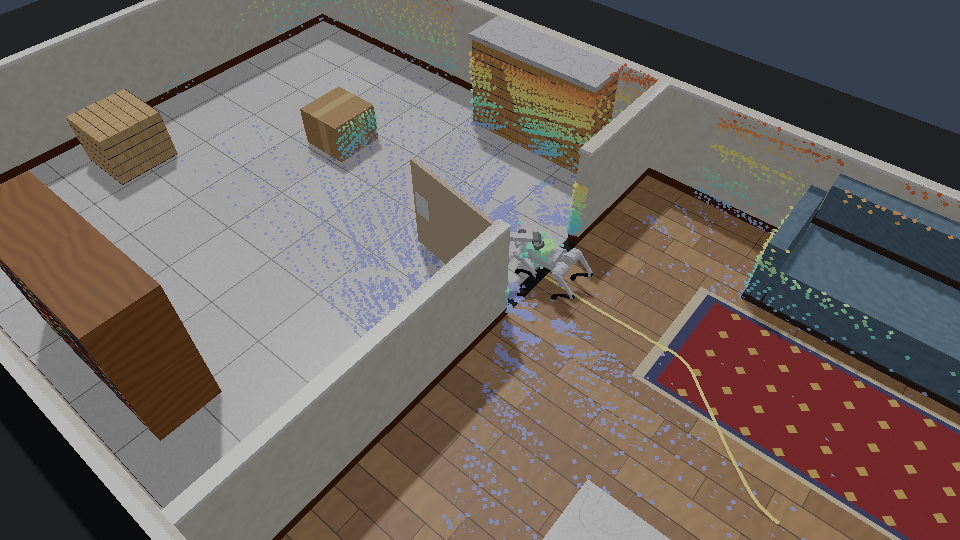
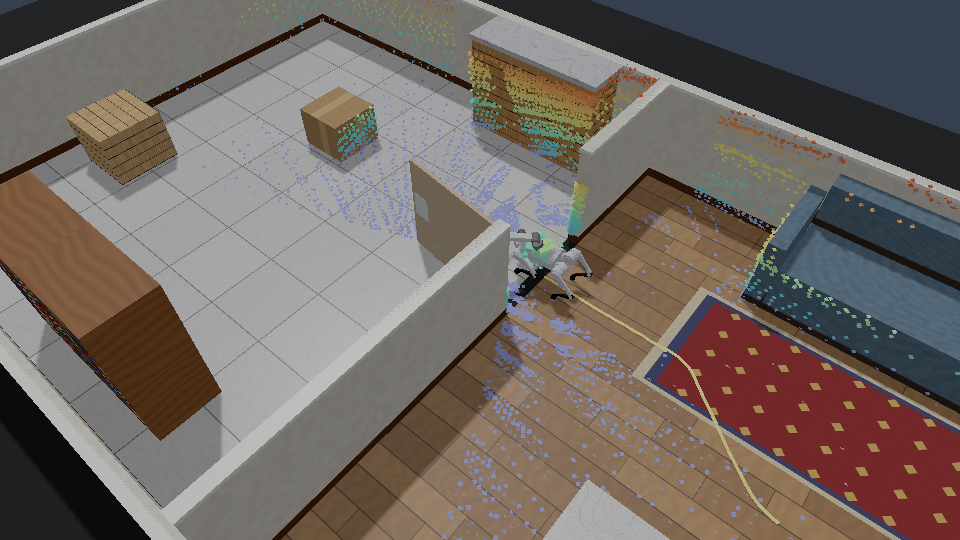
fix(ai): let the Mid-360 see other articulated bodies such as the door
sample_livox_mid360 skipped every URDF link in the scene, not just the sensor
robot's own, so the door was invisible to the scan. It now skips only the
links of the robot carrying the sensor; a new test counts 2,141 door returns
over five frames where the old filter gave 22.

Seeing the door broke example 132's localization (0.179 m RMS, 1.06 m worst,
body down to 0.201 m): the leaf moving under the robot's own push was matched
against a map holding the closed door. Returns within the door's swing are now
masked from SLAM, as a map's dynamic-object zone would be: 0.081 m RMS. The
showcase is recaptured (1,509,699 bytes; front page 11,742,190).

diff --git a/crates/rne_ai/src/env/urdf_scene/lidar.rs b/crates/rne_ai/src/env/urdf_scene/lidar.rs
@@ -3,8 +3,9 @@
 //! A robot's own body shows up in real scans, but for a mounted sensor those returns
 //! are measured per bin in a [`LidarRigOcclusion`] table, which also carries the
 //! mount posts the collision model does not have. Casting against the robot's
-//! colliders as well would count the body twice, so the scene's raycasts skip every
-//! entity carrying a [`Link`].
+//! colliders as well would count the body twice, so the scene's raycasts skip the
+//! links of the robot carrying the sensor. Links of other articulated bodies in the
+//! scene, such as a door on its hinge, are scanned like any other surface.
 
 use super::UrdfSceneSim;
 use rne_data::PointCloud;
@@ -72,6 +73,10 @@ impl UrdfSceneSim {
         let environment = EnvironmentRaycaster {
             backend: &self.backend,
             world: &self.world,
+            own_robot: self
+                .world
+                .get::<Link>(self.base_link)
+                .map(|link| link.robot),
         };
         sample_livox_mid360(
             &environment,
@@ -87,10 +92,12 @@ impl UrdfSceneSim {
     }
 }
 
-/// Read-only view of the scene backend whose raycasts skip robot links.
+/// Read-only view of the scene backend whose raycasts skip the sensor robot's links.
 struct EnvironmentRaycaster<'a> {
     backend: &'a RapierBackend,
     world: &'a World,
+    /// The robot entity whose links the scan skips.
+    own_robot: Option<rne_ecs::Entity>,
 }
 
 impl LidarRaycaster for EnvironmentRaycaster<'_> {
@@ -100,7 +107,11 @@ impl LidarRaycaster for EnvironmentRaycaster<'_> {
         query: RaycastQuery,
     ) -> Result<Vec<RaycastHit>, PhysicsError> {
         let mut hits = self.backend.raycast(physics_world, query)?;
-        hits.retain(|hit| self.world.get::<Link>(hit.entity).is_none());
+        hits.retain(|hit| {
+            self.world
+                .get::<Link>(hit.entity)
+                .is_none_or(|link| Some(link.robot) != self.own_robot)
+        });
         Ok(hits)
     }
 }
@@ -113,8 +124,13 @@ mod tests {
     use std::path::PathBuf;
 
     fn standing_go2() -> UrdfSceneSim {
+        standing_go2_in("unitree_go2_jump.rne.scene.toml")
+    }
+
+    fn standing_go2_in(scene: &str) -> UrdfSceneSim {
         let path = PathBuf::from(env!("CARGO_MANIFEST_DIR"))
-            .join("../../assets/scenes/unitree_go2_jump.rne.scene.toml");
+            .join("../../assets/scenes")
+            .join(scene);
         let mut sim = UrdfSceneSim::from_scene_path(&path).expect("load welded Go2");
         sim.configure_position_motors(180.0, 18.0, 23.7);
         let stand = unitree_go2_trot_targets(
@@ -214,5 +230,45 @@ mod tests {
                 24 + 4 * band
             );
         }
+    }
+
+    #[test]
+    fn mid360_scans_other_articulated_bodies_but_not_its_own_robot() {
+        // The door is a URDF body of its own: its leaf must show in the scan, while
+        // the Go2's links stay out (their returns come from the rig table).
+        let sim = standing_go2_in("unitree_go2_door.rne.scene.toml");
+        let pose = sim
+            .named_mount_transform("base", &unitree_go2_mid360_mount())
+            .expect("mount pose");
+        let base = sim.named_transform("base").expect("base pose").translation;
+        let spec = livox_mid360_spec();
+        let pattern = LivoxMid360Pattern::new();
+        let mut door_points = 0;
+        let mut robot_points = 0;
+        for frame in 0..5 {
+            let cloud = sim.sample_livox_mid360(
+                &LidarSweep::stationary(pose),
+                &spec,
+                &pattern,
+                frame,
+                None,
+                SensorNoiseKey::new(sim.world_seed(), spec.seed, 1, frame),
+            );
+            for point in &cloud.points_m {
+                // The closed leaf: x 2.455..2.485, z 0.21..1.17, up to 0.92 m high.
+                if (2.44..2.50).contains(&point.x)
+                    && (0.21..1.17).contains(&point.z)
+                    && point.y < 0.93
+                {
+                    door_points += 1;
+                }
+                let local = *point - base;
+                if local.x.abs() < 0.35 && local.z.abs() < 0.2 && point.y > 0.1 {
+                    robot_points += 1;
+                }
+            }
+        }
+        assert!(door_points > 100, "door returns {door_points}");
+        assert_eq!(robot_points, 0, "cast returns on the Go2 itself");
     }
 }

diff --git a/examples/132_go2_door/main.rs b/examples/132_go2_door/main.rs
@@ -18,7 +18,10 @@
 //!   emission time, levelled by IMU attitude and de-skewed by drifting leg odometry,
 //!   feed `rne_slam::Slam2d`. Every command comes from that estimate; the door's
 //!   position is given, as a map annotation would give it, and its angle is read
-//!   only to score the run.
+//!   only to score the run. The Mid-360 sees the door, but returns inside its
+//!   swing are masked from SLAM, the way a map marks a moving object's zone:
+//!   matching against a door that moves under the robot's own push dragged the
+//!   estimate up to 1.06 m off.
 //!
 //! The gate checks that the door opens past 80°, ends within 1° of shut, is
 //! touched by the pad and by no other part of the robot, and that the robot stays
@@ -91,6 +94,9 @@ const STOW_POSE: [f64; 4] = [0.0, -1.3, 2.5, 0.3];
 /// The door, in the navigation frame (x, y = -world z): hinge and doorway line.
 const HINGE_NAV: [f64; 2] = [2.47, -0.2];
 const DOORWAY_CENTRE_Y: f64 = -0.7;
+/// The door leaf reaches 0.97 m from its hinge; returns within this radius on
+/// its swing side are masked from SLAM, as a map's dynamic-object zone would be.
+const DOOR_SWING_MASK_M: f64 = 1.05;
 /// Closing line: 0.52 m east of the hinge, so the pad 0.4 m to the right pushes
 /// the leaf 0.12 m from the hinge line.
 const CLOSING_LINE_X: f64 = HINGE_NAV[0] + 0.52;
@@ -377,6 +383,9 @@ impl Run {
         let sensor_from_base = Pose2d::new(UNITREE_GO2_MID360_FORWARD_OF_BASE_M, 0.0, 0.0);
         let mut ranges = vec![f64::NAN; SCAN_BEAMS];
         let increment = 2.0 * PI / SCAN_BEAMS as f64;
+        // Where the sensor is in the map, by the robot's own estimate: returns that
+        // land in the door's swing are left out of localization and mapping.
+        let sensor_in_map = self.estimate().compose(sensor_from_base);
         for (point, time_s) in cloud.points_m.iter().zip(cloud.timestamps_s.iter()) {
             let fraction = (time_s / self.spec.rotation_period_s).clamp(0.0, 1.0);
             // What the driver reports: the return in the sensor frame at emission.
@@ -407,6 +416,9 @@ impl Run {
             let at_end = sensor_from_base
                 .inverse()
                 .transform_point(emission_from_end.transform_point(base_point));
+            if in_door_swing(sensor_in_map.transform_point(at_end)) {
+                continue;
+            }
             let range = at_end.x.hypot(at_end.y);
             let beam = ((at_end.y.atan2(at_end.x) + PI) / increment).floor() as usize % SCAN_BEAMS;
             if ranges[beam].is_nan() || range < ranges[beam] {
@@ -590,6 +602,14 @@ fn slam_config() -> SlamConfig {
     config.matcher.angular_samples = 7;
     config.matcher.levels = 4;
     config
+}
+
+/// Whether a map point lies in the door's swing, which the map annotation marks
+/// as a moving object: within the leaf's reach of the hinge, on the side it swings
+/// to.
+fn in_door_swing(point: Vec3) -> bool {
+    (point.x - HINGE_NAV[0]).hypot(point.y - HINGE_NAV[1]) <= DOOR_SWING_MASK_M
+        && point.x >= HINGE_NAV[0] - 0.09
 }
 
 /// The base's true planar pose in the navigation frame, for scoring only.

diff --git a/docs/GO2_DOOR.md b/docs/GO2_DOOR.md
@@ -46,18 +46,25 @@ drifting leg odometry, and matched by `rne_slam::Slam2d`, as in example 131.
 The door's position is given, as a map annotation would give it; its angle is
 read only to score the run.
 
+The Mid-360 sees the door like any other surface. Returns inside the door's
+swing (1.05 m from the hinge, on the side it opens to) are left out of SLAM,
+the way a map marks a moving object's zone: matched against a map that still
+holds the closed door, the leaf the robot is pushing dragged the estimate up to
+1.06 m off (0.179 m RMS) and nearly toppled the robot. With the mask the error
+is 0.081 m RMS.
+
 ## Measured
 
 | Measure | Result | Gate |
 | --- | --- | --- |
-| Door opened to | 1.511 rad (87°) | > 1.4 rad |
+| Door opened to | 1.520 rad (87°) | > 1.4 rad |
 | Door left at | 0.000 rad (against its stop) | < 0.02 rad |
-| Pad in contact with the door | 16.6 s | > 0 |
+| Pad in contact with the door | 16.1 s | > 0 |
 | Any other robot link in contact with the door | never | never |
-| Localization error | 0.052 m RMS, 0.096 m worst | RMS < 0.15 m |
-| Clearance to walls and furniture | at least 0.48 m | > 0.3 m |
+| Localization error | 0.081 m RMS, 0.140 m worst | RMS < 0.15 m |
+| Clearance to walls and furniture | at least 0.49 m | > 0.3 m |
 | Lowest body height | 0.258 m | > 0.2 m |
-| Whole sequence | 117.9 s | finishes |
+| Whole sequence | 118.4 s | finishes |
 
 With the robot steered by the simulation's true pose instead, the straight
 closing push alone left the door at 0.031 rad; under the ~0.06 m localization
@@ -78,8 +85,9 @@ list.
 
 The added furniture changed the SLAM trajectory enough to push this run's
 localization error from 0.059 m to 0.129 m RMS with the default matcher. With
-all 360 scan beams and a finer search (7 samples per axis, 4 levels) it is
+all 360 scan beams and a finer search (7 samples per axis, 4 levels) it was
 0.052 m, and example 131 went from 0.099 m to 0.042 m on the same settings.
+Once the scan also saw the door (below), the door run settled at 0.081 m.
 
 ## Known limitations
 
@@ -90,6 +98,12 @@ all 360 scan beams and a finer search (7 samples per axis, 4 levels) it is
   moves the door leaf to its own group; a per-robot group in the importer would
   fix it generally, but would also change existing multi-robot scenes such as
   the OpenArm pair.
+- **Scans used to skip the door.** Before this was fixed, `sample_livox_mid360`
+  skipped every URDF link in the scene, not just the Go2's own, so the door was
+  invisible to the Mid-360. It now skips only the sensor robot's links; the
+  test `mid360_scans_other_articulated_bodies_but_not_its_own_robot` counts
+  2,141 door returns over five frames where the old filter gave 22 (wall edge
+  points only).
 - **The arm and the Mid-360.** The rig occlusion table was measured without an
   arm, and the scene's raycasts skip the robot's own links, so the arm does not
   shadow the scan.

diff --git a/README.md b/README.md
@@ -52,7 +52,7 @@ camera state; gates and regeneration commands are in
         <img src="docs/media/showcase-go2-door.gif" alt="A Unitree Go2 with an arm on its back pushes a swing door open with the pad on its arm, walks through the doorway, walks around the open door and pushes it shut from the other side, with its Livox Mid-360 returns drawn coloured by height" width="460">
       </picture>
       <br><b>Go2 · door with an arm</b><br>
-      <sub>The Go2 pushes a free-swinging 6 kg door open with the pad on its arm, walks through, and pushes it back against its stop; the pad is the only part of the robot that ever touches the door. It steers only on its own Livox Mid-360 localization (0.05 m RMS), with the sensor model fitted to real Go2 recordings. <a href="docs/media/showcase-go2-door.json">metadata</a> · <a href="docs/GO2_DOOR.md">details</a></sub>
+      <sub>The Go2 pushes a free-swinging 6 kg door open with the pad on its arm, walks through, and pushes it back against its stop; the pad is the only part of the robot that ever touches the door. It steers only on its own Livox Mid-360 localization (0.08 m RMS), with the sensor model fitted to real Go2 recordings. <a href="docs/media/showcase-go2-door.json">metadata</a> · <a href="docs/GO2_DOOR.md">details</a></sub>
     </td>
     <td width="50%" align="center">
       <picture>
@@ -192,7 +192,7 @@ With an arm on its back, the Go2 walks through a swing door and shuts it
 behind itself. Nothing holds or drives the 6 kg door: the pad on the arm
 pushes it open to 87° and back against its stop, and no other part of the
 robot ever touches it. Every command comes from its own Livox Mid-360
-localization (0.052 m RMS), with the sensor model fitted to real Go2
+localization (0.081 m RMS), with the sensor model fitted to real Go2
 recordings. [docs/GO2_DOOR.md](docs/GO2_DOOR.md) ·
 [source](examples/132_go2_door/main.rs)
 

diff --git a/CHANGELOG.md b/CHANGELOG.md
@@ -124,7 +124,7 @@ All notable changes to Robot Native Engine are documented in this file.
   inside its collider so the robot's sensors see what is shown; the sofa,
   plants, and counter are new colliders in the scenes. Examples 131 and 132
   use it, read clearance from the scene's colliders, and match all 360 scan
-  beams on a finer grid (localization 0.042 m and 0.052 m RMS).
+  beams on a finer grid (localization 0.042 m and 0.081 m RMS).
 - The README's lift section shows one GIF (goods-in to delivery); the
   two-truck relay moves to `docs/DEMOS.md`. The README's Go2 section shows
   only the door GIF, with the trot, Mid-360, and navigation GIFs in
@@ -819,6 +819,11 @@ All notable changes to Robot Native Engine are documented in this file.
 
 ### Fixed
 
+- `UrdfSceneSim::sample_livox_mid360` skipped every URDF link in the scene,
+  so a door (or any other articulated body) was invisible to the Mid-360. It
+  now skips only the links of the robot carrying the sensor. Example 132 masks
+  the door's swing zone out of SLAM instead: matched against a map holding the
+  closed door, the moving leaf dragged the estimate up to 1.06 m off.
 - The G1 + Dex3 robot (`unitree_g1_29dof_dex3_fixed`) ignored the URDF's
   masses: every link spawned at 1.0 kg with no declared inertia, so a Dex3
   finger (0.02 kg, 1.5e-6 kg·m² in the URDF) behaved like ~1 kg·m² and its

diff --git a/docs/README_SHOWCASE.md b/docs/README_SHOWCASE.md
@@ -30,10 +30,10 @@ observation state.
 | Real indoor 3DGS mobile manipulation | `house-mobile-manipulation.gif` / `.png` | 1,158,109 | 737,087 | 960 x 540 |
 | OpenArm v2 bimanual control | `showcase-openarm.gif` / `.png` | 1,983,788 | 56,163 | 960 x 540 |
 | Factory inspection | `showcase-factory.gif` / `.png` | 2,638,709 | 88,762 | 960 x 540 |
-| Go2 door with an arm | `showcase-go2-door.gif` / `.png` | 1,735,164 | 526,722 | 960 x 540 |
+| Go2 door with an arm | `showcase-go2-door.gif` / `.png` | 1,509,699 | 527,022 | 960 x 540 |
 | PLATEAU UAV RGB-D flight | `showcase-uav.gif` / `.png` | 4,451,885 | 585,765 | 960 x 540 |
 
-The current GIF total is **11,967,655 bytes**, below the 12,000,000-byte
+The current GIF total is **11,742,190 bytes**, below the 12,000,000-byte
 combined ceiling. `showcase-media-check` verifies the exact total; regeneration
 must update the manifest's sizes and hashes in the same change.
 
